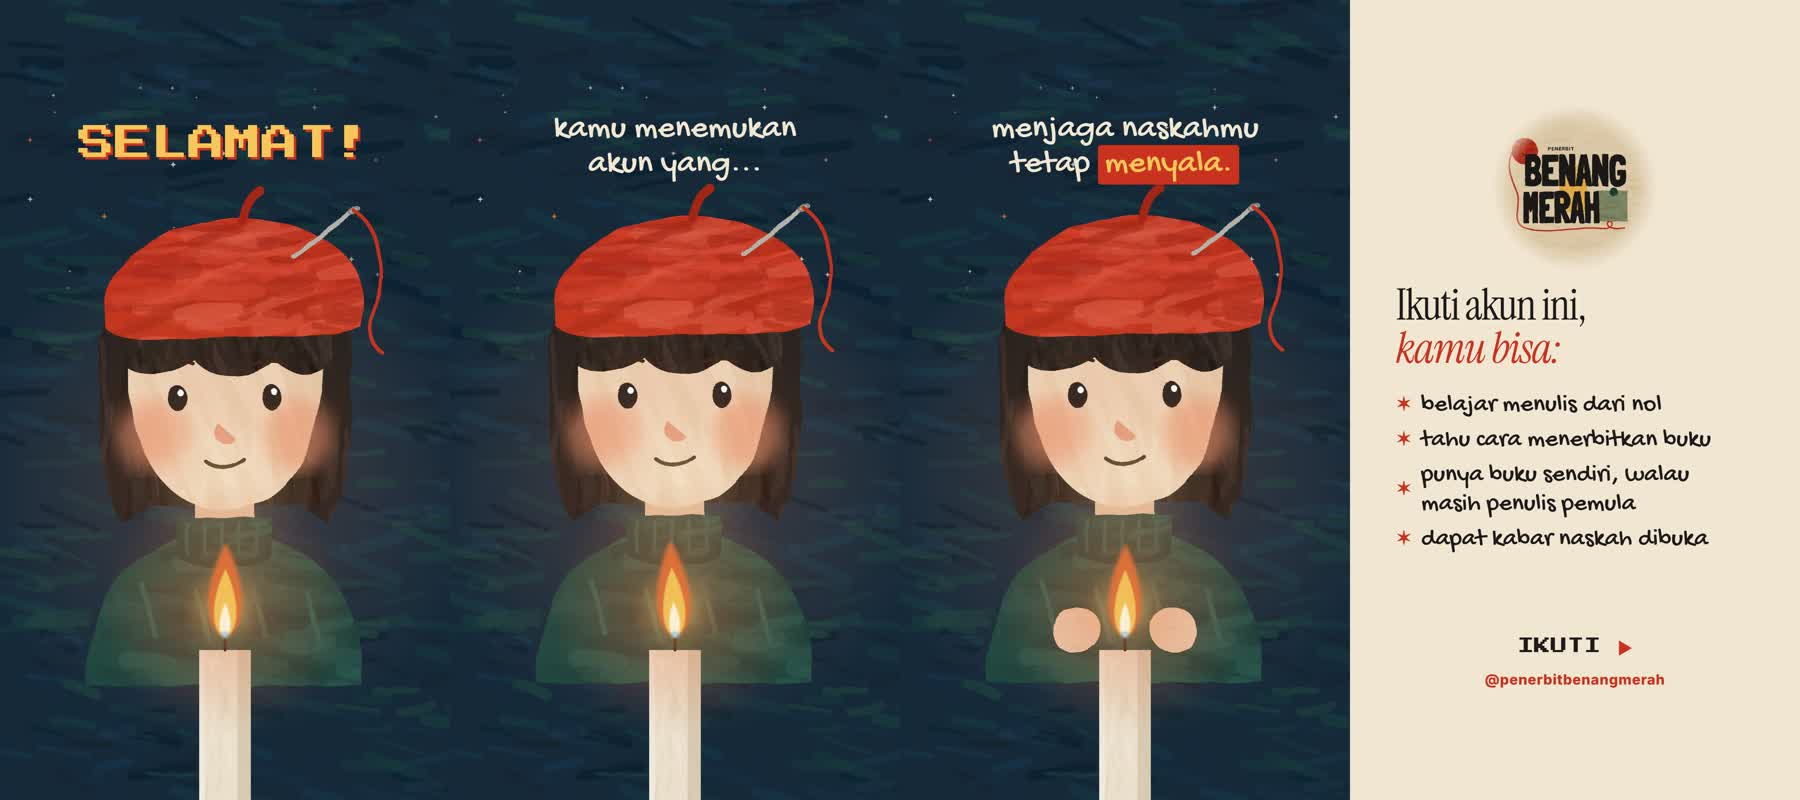
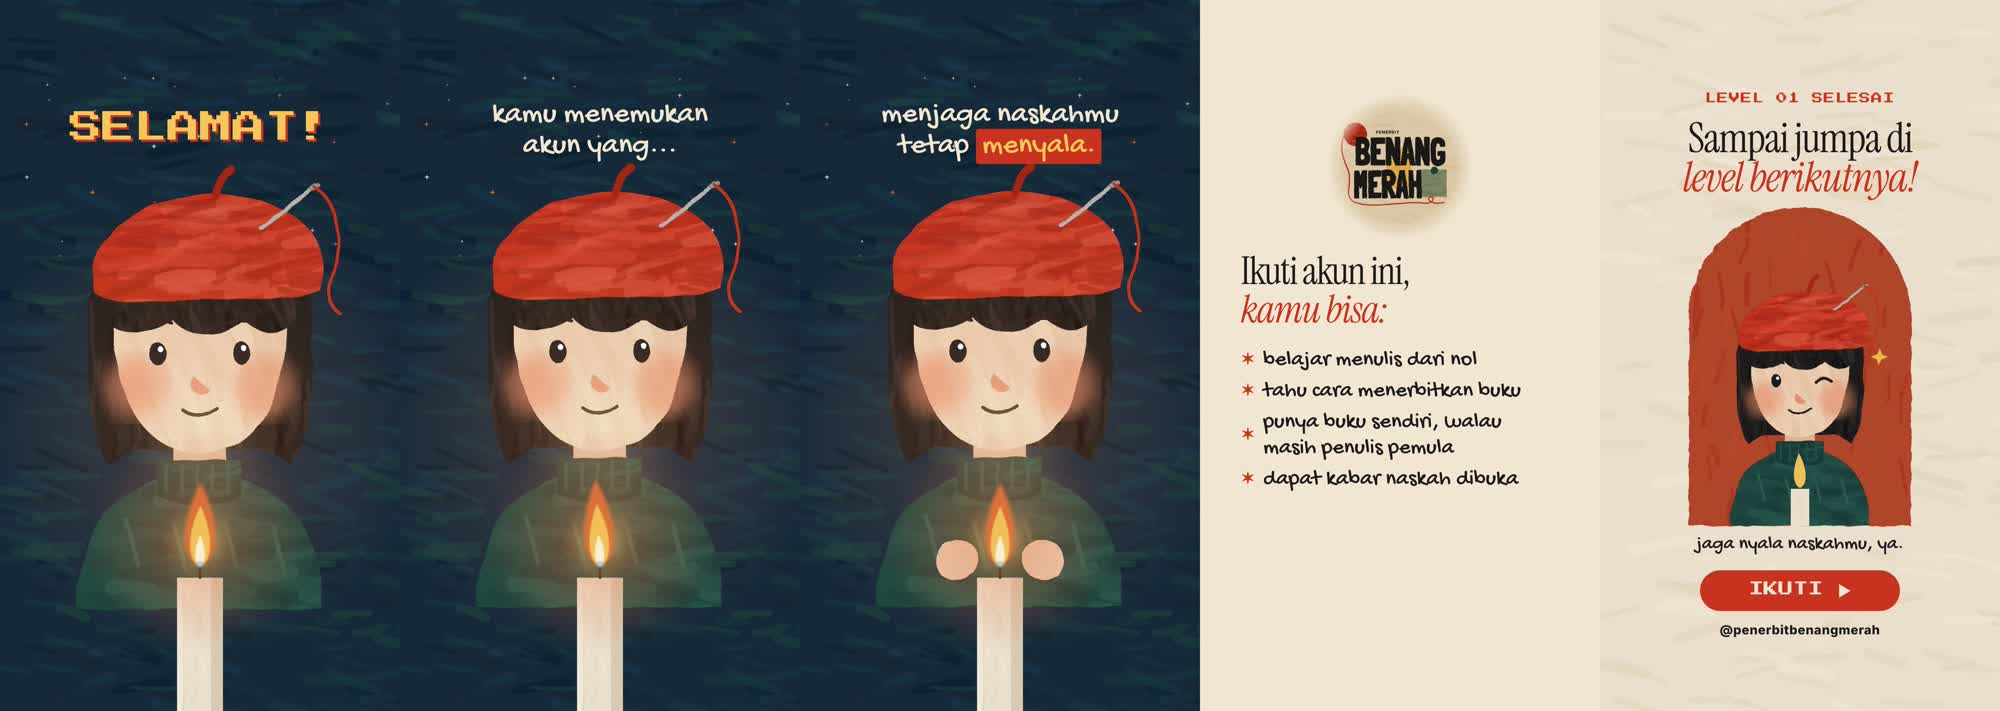
Add closing scene to Reel 02 storyboard
Claude-Session: https://claude.ai/code/session_01PjfPmc8sy7deQmezPEpUxb

diff --git a/konten/benang-merah/reels/reel-02.html b/konten/benang-merah/reels/reel-02.html
@@ -25,6 +25,14 @@ svg{position:absolute;inset:0}.a{position:absolute}.ps{font-family:'Press Start 
  <div class="a ps" id="cta" style="left:0;right:0;top:1530px;text-align:center;font-size:40px;color:#1C1A1A;opacity:0">IKUTI <span style="color:#C8321E">▶</span></div>
  <div class="a" id="hd" style="left:0;right:0;top:1610px;text-align:center;font:800 34px Inter;color:#C8321E;letter-spacing:1px;opacity:0">@penerbitbenangmerah</div>
 </div>
+<div id="close" style="position:absolute;inset:0;background:#F1E6D2;opacity:0">
+ <svg id="s2" viewBox="0 0 1080 1920" width="1080" height="1920" style="position:absolute;inset:0"></svg>
+ <div class="a ps" style="left:0;right:0;top:250px;text-align:center;font-size:30px;color:#C8321E;letter-spacing:2px">LEVEL 01 SELESAI</div>
+ <div class="a" style="left:60px;right:60px;top:320px;text-align:center;font:400 112px/0.95 'Instrument Serif';letter-spacing:-3px;color:#1C1A1A">Sampai jumpa di<br><i style="color:#C8321E">level berikutnya!</i></div>
+ <div class="a" style="left:0;right:0;top:1440px;text-align:center;font:400 52px 'Gochi Hand';color:#1C1A1A">jaga nyala naskahmu, ya.</div>
+ <div class="a" id="btn" style="left:270px;width:540px;top:1540px;height:110px;border-radius:60px;background:#C8321E;display:flex;align-items:center;justify-content:center;font:400 40px 'Press Start 2P';color:#F1E6D2">IKUTI ▶</div>
+ <div class="a" style="left:0;right:0;top:1680px;text-align:center;font:800 34px Inter;color:#1C1A1A;letter-spacing:1px">@penerbitbenangmerah</div>
+</div>
 </div>
 <script>
 const s=document.getElementById('s');
@@ -90,6 +98,23 @@ window.render=function(t){
   ['i1','i2','i3','i4'].forEach((id,i)=>{const e=document.getElementById(id);const p=ease((t-8.6-i*.6)/.35);e.style.opacity=p;e.style.transform=`translateX(${((1-p)*30).toFixed(1)}px)`});
   document.getElementById('cta').style.opacity=t>11.2?(Math.floor(t*2.5)%2?1:.35):0;
   document.getElementById('hd').style.opacity=ease((t-11.0)/.4);
+};
+
+// closing scene
+{const s2=document.getElementById('s2');s2.innerHTML=`<g id="cbg" filter="url(#rough)"></g><g id="cs"></g><g id="cf"></g><rect width="1080" height="1920" filter="url(#paper)" style="mix-blend-mode:multiply" opacity=".3"/>`;
+P=s2.querySelector('#cbg');seed=12;paint('M-30 -30H1110V1950H-30Z','#F1E6D2',['#E7D8BD','#F7EEDD'],200,[10,30],[60,160],0.05);
+paint('M240 1420V860a300 300 0 0 1 600 0V1420Z','#B5462A',['#A82818','#C24A2E'],80,[6,14],[40,120],1.57);
+P=s2.querySelector('#cs');const cg=el('g',{id:'csul'});P=cg;
+P=document.getElementById('s2').querySelector('#cs');const ci=el('g',{transform:'translate(251 688) scale(1.7)',filter:'url(#wob)'},cg);seed=9;sulam(ci,'mengedip');
+P=s2.querySelector('#cf');paint('M515 1320H565V1420H515Z',C.cream,['#E7D8BD'],10,[3,6],[10,30],1.57);
+el('path',{id:'cfl',fill:'#F7C65A'});
+P=s2.querySelector('#cf');}
+const _r=window.render;window.render=function(t){_r(t);
+ document.getElementById('close').style.opacity=ease((t-12.6)/.5);
+ const sw=n(t,1.3,2.9,5.7)*6,h=90*(1+n(t,7.1,11.3,17.9)*.08);
+ document.getElementById('cfl').setAttribute('d',fpath(24,h,sw));document.getElementById('cfl').setAttribute('transform','translate(540 1318)');
+ document.getElementById('csul').setAttribute('transform',`translate(0 ${(Math.sin(t*1.6)*4).toFixed(1)})`);
+ const b=document.getElementById('btn');const pulse=1+Math.max(0,Math.sin((t-13.4)*5))*.05*(t>13.4);b.style.transform=`scale(${pulse.toFixed(3)})`;
 };
 render(0);
 </script></body></html>

diff --git a/konten/benang-merah/reels/frames2.js b/konten/benang-merah/reels/frames2.js
@@ -1,5 +1,5 @@
 const {chromium}=require('playwright');const fs=require('fs');
-(async()=>{const out=process.argv[2],fps=30,dur=13;fs.mkdirSync(out,{recursive:true});
+(async()=>{const out=process.argv[2],fps=30,dur=16;fs.mkdirSync(out,{recursive:true});
 const b=await chromium.launch();const p=await b.newPage({viewport:{width:1080,height:1920}});
 await p.goto('file://'+process.cwd()+'/reel-02.html');await p.evaluate(()=>document.fonts.ready);await p.waitForTimeout(800);
 const only=process.argv[3]?process.argv[3].split(',').map(Number):null;
